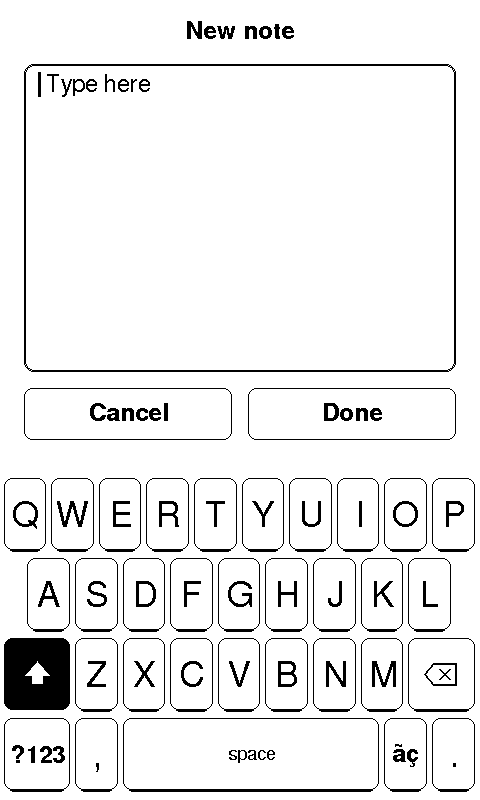
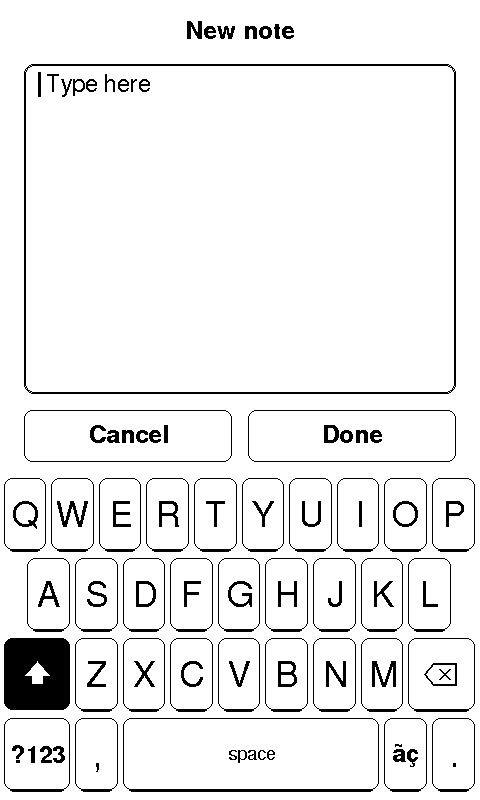
v0.5.1: nine notes a page with pinned notes in their place, a tap on a pinned note on the lock screen opens it, Delete all turns into Confirm, even gaps on the keyboard screen

Changed region(s): [[0.0312, 0.4688, 0.9688, 0.5625]]

diff --git a/firmware/brainos/ui.cpp b/firmware/brainos/ui.cpp
@@ -126,16 +126,13 @@ static void button(int x, int y, int w, int h, const char *label, bool filled) {
 
 struct Row { int noteIndex; int y, h; String day; };  // noteIndex -1: a day header
 static std::vector<Row> rows;
-static const int ROW_H = 68, HEAD_H = 36, LIST_TOP = BAR + 8, LIST_BOTTOM_PAD = 88;
+static const int ROW_H = 64, HEAD_H = 32, LIST_TOP = BAR + 8, LIST_BOTTOM_PAD = 84;   // nine notes and up to two day headers a page
 
 static std::vector<int> listed(bool archived) {
   auto &all = notesAll();
   std::vector<int> idx;
   for (size_t i = 0; i < all.size(); i++) if (all[i].archived == archived) idx.push_back(i);
-  std::sort(idx.begin(), idx.end(), [&](int a, int b) {
-    if (all[a].pinned != all[b].pinned) return all[a].pinned;   // the pinned ones first
-    return all[a].created > all[b].created;
-  });
+  std::sort(idx.begin(), idx.end(), [&](int a, int b) { return all[a].created > all[b].created; });   // newest first; a pinned note keeps its place and shows the pin
   return idx;
 }
 
@@ -161,7 +158,7 @@ static int listPages(bool archived) {
   String lastDay;
   int y = LIST_TOP, pageH = H - LIST_TOP - LIST_BOTTOM_PAD, pages = 1;
   for (int i : idx) {
-    String day = all[i].pinned ? "Pinned" : dayLabel(all[i].created);
+    String day = dayLabel(all[i].created);
     int need = (day != lastDay ? HEAD_H : 0) + ROW_H;
     if (y - LIST_TOP + need > pageH * pages) { pages++; y = LIST_TOP + pageH * (pages - 1); lastDay = ""; }
     if (day != lastDay) { rows.push_back({-1, y, HEAD_H, day}); y += HEAD_H; lastDay = day; }
@@ -185,16 +182,16 @@ static void drawList(bool archived) {
     if (y < LIST_TOP || y + r.h > LIST_TOP + pageH) continue;
     any = true;
     if (r.noteIndex < 0) {
-      text(24, y + 24, F_B9, r.day.c_str());
-      canvas->drawFastHLine(24, y + 31, W - 48, INK);
+      text(24, y + 22, F_B9, r.day.c_str());
+      canvas->drawFastHLine(24, y + HEAD_H - 1, W - 48, INK);
       continue;
     }
     const Note &n = all[r.noteIndex];
     String body = n.audio.length() ? String("Recording, ") + n.secs + " s. Waiting for Wi-Fi to transcribe." : n.text;
     auto lines = wrapLines(F_S12, body, W - 48 - 64 - (n.pinned ? 22 : 0), 2);
-    for (size_t i = 0; i < lines.size(); i++) text(24, y + 26 + i * 24, F_S12, lines[i].c_str());
-    textRight(W - 24, y + 24, F_S9, timeOf(n.created, false).c_str());
-    if (n.pinned) iconPin(W - 44, y + 32);
+    for (size_t i = 0; i < lines.size(); i++) text(24, y + 25 + i * 24, F_S12, lines[i].c_str());
+    textRight(W - 24, y + 23, F_S9, timeOf(n.created, false).c_str());
+    if (n.pinned) iconPin(W - 44, y + 31);
     if (&r != last) canvas->drawFastHLine(24, y + r.h - 1, W - 48, INK);
   }
   if (!any) textCentre(W / 2, H / 2, F_S12, archived ? "The archive is empty" : "No notes yet");
@@ -212,6 +209,8 @@ static int rowAt(int y) {  // the note index under y on the current page, or -1
 
 // ---------------------------------------------------------------- screens
 
+struct LockBox { int y, h; String id; };
+static std::vector<LockBox> lockBoxes;   // the pinned notes on the lock screen, for taps
 static void drawLock() {
   char buf[64];
   if (now.battery) snprintf(buf, sizeof(buf), "%d%%", now.percent); else strcpy(buf, "--%");
@@ -226,12 +225,13 @@ static void drawLock() {
   static const char *MONTHS[] = {"Jan", "Feb", "Mar", "Apr", "May", "Jun", "Jul", "Aug", "Sep", "Oct", "Nov", "Dec"};
   if (known) snprintf(buf, sizeof(buf), "%s, %s %d", DAYS[tm.tm_wday], MONTHS[tm.tm_mon], tm.tm_mday); else strcpy(buf, "Time not set");
   textCentre(W / 2, 240, F_S12, buf);
-  {  // the pinned notes, newest pin first, stacked while they fit
+  lockBoxes.clear();
+  {  // the pinned notes, newest first, stacked while they fit; a tap on one opens it
     auto idx = listed(false);
     int top = 300, bottom = H - 110;
     for (int i : idx) {
       const Note &p = notesAll()[i];
-      if (!p.pinned) break;
+      if (!p.pinned) continue;
       int maxLines = (bottom - top - 30) / 26;
       if (maxLines < 1) break;
       auto lines = wrapLines(F_S12, p.audio.length() ? "(recording, waiting)" : p.text, W - 48 - 56, min(maxLines, 4));
@@ -239,6 +239,7 @@ static void drawLock() {
       canvas->drawRect(24, top, W - 48, height, INK);
       iconPin(W - 48, top + 10);
       for (size_t k = 0; k < lines.size(); k++) text(40, top + 34 + k * 26, F_S12, lines[k].c_str());
+      lockBoxes.push_back({top, height, p.id});
       top += height + 12;
     }
   }
@@ -374,7 +375,7 @@ static void joinNetwork(const String &ssid, const String &pass) {
 static void drawArchive() {
   topBar("Archive", true);
   drawList(true);
-  if (notesCount(true)) button(24, FOOT_Y, W - 48, 52, deleteAllArmed ? "Tap again to delete everything" : "Delete all", deleteAllArmed);
+  if (notesCount(true)) button(24, FOOT_Y, W - 48, 52, deleteAllArmed ? "Confirm" : "Delete all", deleteAllArmed);
 }
 
 static void drawSoon(const char *title) {
@@ -442,7 +443,10 @@ static bool leftIcon(int x, int y) { return inBar(y) && x < 80; }
 
 void uiTap(int x, int y) {
   switch (screen) {
-    case SCREEN_LOCK: uiGo(lockFrom); break;
+    case SCREEN_LOCK:
+      for (auto &b : lockBoxes) if (y >= b.y && y < b.y + b.h) { openId = b.id; deleteArmed = false; uiGo(SCREEN_NOTE); return; }
+      uiGo(lockFrom);
+      break;
     case SCREEN_SAVED: uiGo(SCREEN_NOTES); break;
     case SCREEN_NOTES: {
       if (inFooter(y)) {

diff --git a/firmware/brainos/keyboard.cpp b/firmware/brainos/keyboard.cpp
@@ -41,8 +41,8 @@ std::vector<String> wrapped(const GFXfont *font, const String &s, int width) {
 
 enum KeyCode { K_SHIFT = 1, K_BACK, K_LAYER, K_MORE, K_ACCENTS };
 struct KeyBox { int16_t x, y, w, h; uint16_t code; };
-static const int PITCH = 80, KB_NOTE_H = 26, KB_MAX_KEYS = 48;
-static int keyboardHeight() { return KB_NOTE_H + 4 * PITCH + 2; }
+static const int PITCH = 80, KB_MAX_KEYS = 48;
+static int keyboardHeight() { return 4 * PITCH + 2; }
 static const char *const LETTERS[] = {"qwertyuiop", "asdfghjkl", "zxcvbnm"};
 static const char *ACCENTS = "áàâãçéêíóôõú";
 
@@ -139,8 +139,7 @@ static void keyboardField(Keyboard &kb, int x, int y, int w, int h) {
 static void keyLabel(int cx, int cy, const GFXfont *f, const char *s, int lift) { textCentre(cx, cy + lift, f, s); }
 
 static void keyboardDrawKeys(Keyboard &kb, int top) {
-  if (kb.note.length()) text(12, top + 19, F_B9, fitted(F_B9, kb.note, W - 24).c_str());
-  kb.keysTop = top + KB_NOTE_H;
+  kb.keysTop = top;
   KeyBox keys[KB_MAX_KEYS];
   int n = keyboardKeys(kb, kb.keysTop, keys);
   for (int i = 0; i < n; i++) {
@@ -190,9 +189,10 @@ void keyboardDraw(Keyboard &kb) {
   uiTitle(fitted(F_B12, kb.label, W - 160).c_str());
   if (kb.masked) textRight(W - 24, 38, F_B9, kb.reveal ? "Hide" : "Show");
   int keysAt = H - keyboardHeight();
-  kb.buttonsY = keysAt - 12 - KB_BTN_H;
-  int fieldY = KB_BAR + 8;
-  keyboardField(kb, 24, fieldY, W - 48, kb.buttonsY - KB_GAP - fieldY);
+  kb.buttonsY = keysAt - KB_GAP - KB_BTN_H;   // the same gap above and below the buttons
+  int fieldY = KB_BAR + 8, fieldBottom = kb.buttonsY - KB_GAP;
+  if (kb.note.length()) { fieldBottom -= 28; textCentre(W / 2, fieldBottom + 20, F_B9, fitted(F_B9, kb.note, W - 48).c_str()); }   // a message between the field and the buttons
+  keyboardField(kb, 24, fieldY, W - 48, fieldBottom - fieldY);
   int bw = (W - 48 - KB_GAP) / 2;
   uiButton(24, kb.buttonsY, bw, KB_BTN_H, "Cancel", false);
   uiButton(24 + bw + KB_GAP, kb.buttonsY, bw, KB_BTN_H, "Done", false);

diff --git a/docs/guia.md b/docs/guia.md
@@ -6,7 +6,7 @@
 - **Dormir**: na bateria, após 30 minutos sem uso, ele vai para a lock screen e dorme fundo; um clique em OK acorda, outro destranca onde você estava. Na tomada não dorme. O Wi-Fi fica sempre ligado enquanto acordado.
 - **Cima/Baixo**: passam as páginas da lista; com uma nota aberta, vão para a anterior e a seguinte.
 - **Cima + Baixo juntos**: tranca. Segurando os dois por 2 s: dorme (OK acorda).
-- **Toque**: na lista, os botões New note e Settings embaixo; uma nota = abre (Pin, Edit, Archive, Delete; uma nota arquivada só tem Restore e Delete). Settings tem Wi-Fi, Export, Archive e About; o resto fica em http://brain.local.
+- **Toque**: na lista, os botões New note e Settings embaixo; uma nota = abre (Pin, Edit, Archive, Delete; uma nota arquivada só tem Restore e Delete). Uma nota fixada fica no lugar dela na lista, com a tachinha, e aparece na lock screen: tocar nela ali abre a nota. Settings tem Wi-Fi, Export, Archive e About; o resto fica em http://brain.local.
 - **Fixadas**: até 3; aparecem no topo da lista e na lock screen. Ao fixar uma quarta, a fixada mais antiga é liberada.
 
 ## A página brain.local
